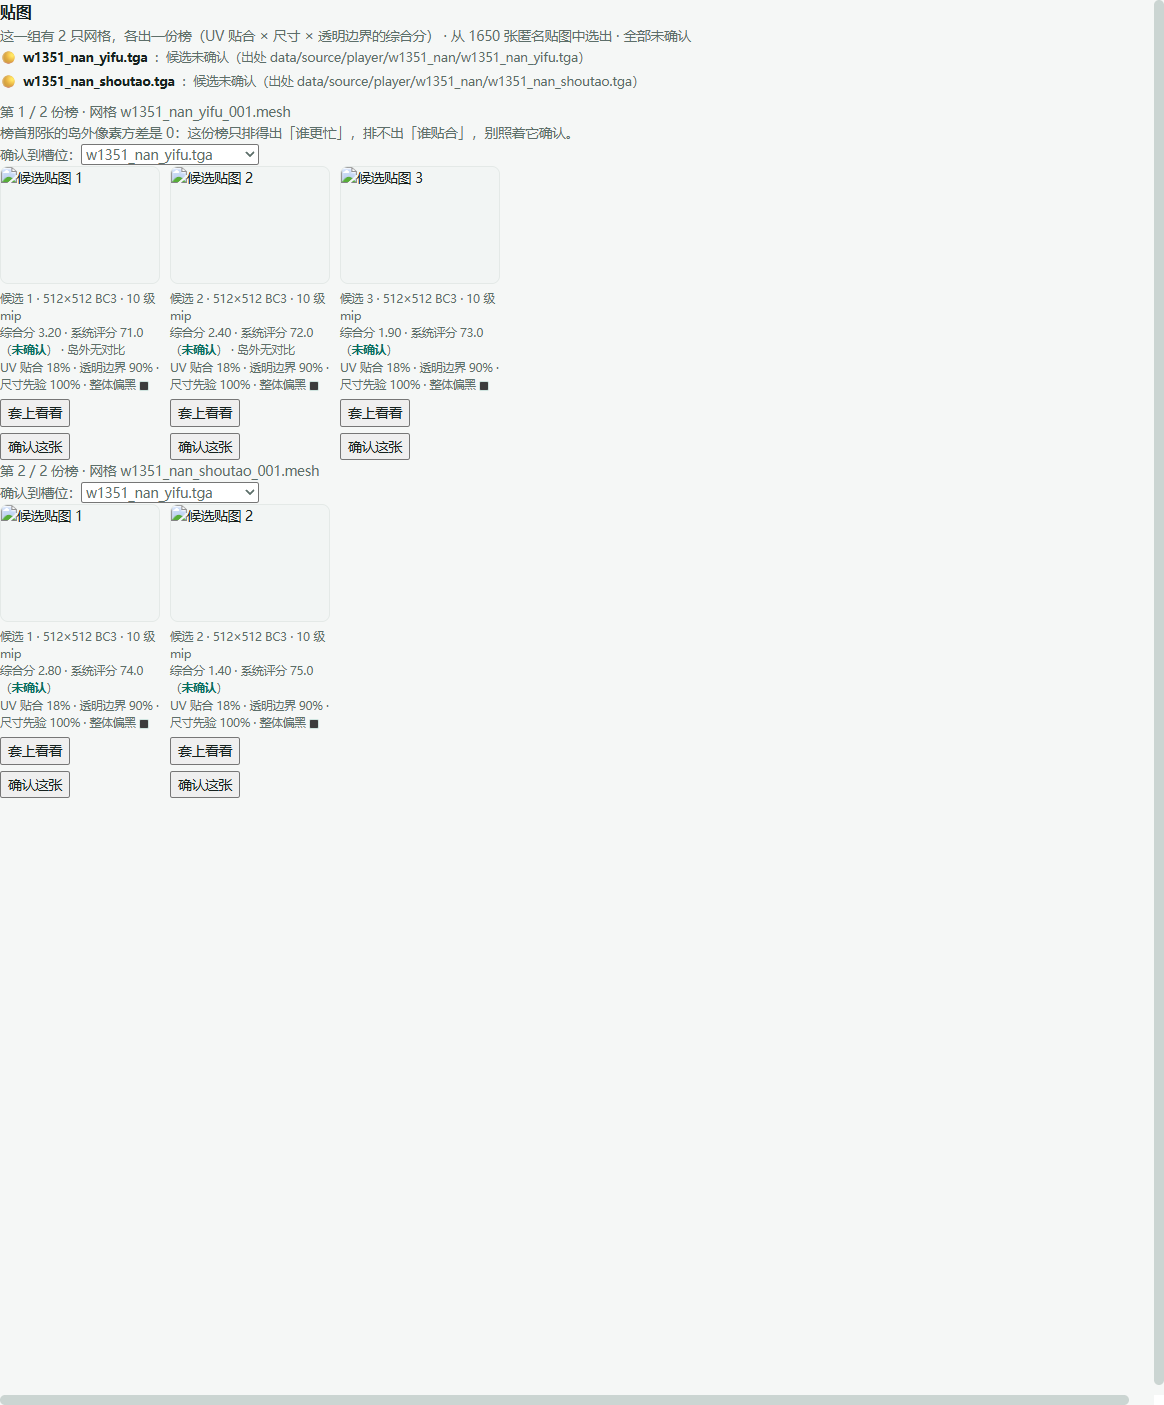
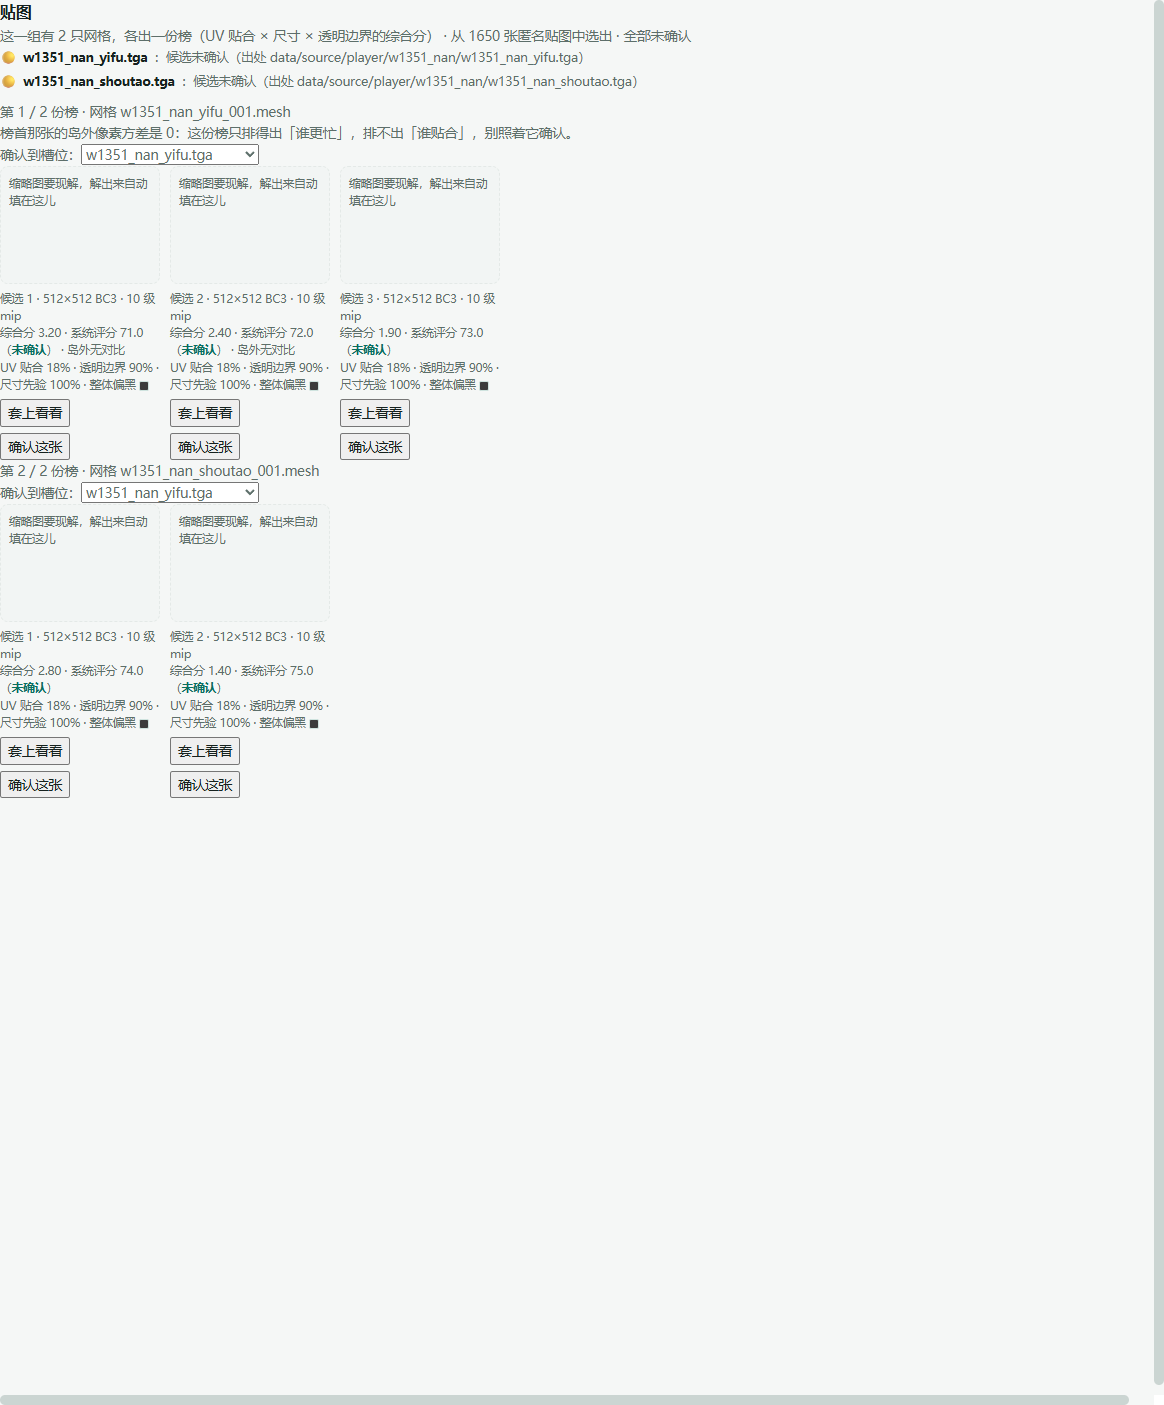
fix(贴图): 候选卡不再摆空 img——占位框有底纹有说明，解第几张/解不出来的原因写上卡面
批量缓存的候选不带内嵌图，以前是一张没有 src 的 img（浏览器画破图角）+ 串行现解，
用户点开贴图栏看到的就是「贴图呢」。现在：没图的卡先摆带底纹的占位框写明「要现解」，
逐张解时占位写「正在解第 k / n 张」，解出来撤占位换图，解不出来把后端原因写上卡面
（原来只挂在 title 里，等于没说）。JS 304 项全绿，真浏览器画面已看。

diff --git a/tlbb-explorer/app/web/detail.js b/tlbb-explorer/app/web/detail.js
@@ -848,21 +848,35 @@ async function loadCandidatePngs() {
     return null;
   };
   const imgs = Array.from(el("texCand").querySelectorAll("img[data-need-png]"));
-  for (const img of imgs) {
+  // 占位条与它那张图同处一个 figure：按 data-ph-for=hash 找，找不到就算了（旧缓存）。
+  const phOf = (img) =>
+    img.parentElement?.querySelector(`[data-ph-for="${CSS.escape(img.dataset.hash)}"]`) || null;
+  const note = el("texNote");
+  const baseNote = note.textContent;
+  for (const [i, img] of imgs.entries()) {
     if (!img.isConnected || texReply !== reply) return; // 已被下一轮 paint 换掉
+    const ph = phOf(img);
+    if (ph) ph.textContent = `正在解第 ${i + 1} / ${imgs.length} 张…`;
     try {
       const png = await api.candidatePng(img.dataset.hash);
       if (!img.isConnected || texReply !== reply) return;
       if (png) {
         img.src = png;
+        if (ph) ph.remove();
         const c = byHash(img.dataset.hash);
         if (c && !c.png) c.png = png;
-      } else {
+      } else if (ph) {
+        ph.textContent = "这张解不出来：容器里没有它";
         img.title = "缩略图没读出来";
       }
-    } catch {
+    } catch (e) {
+      // 原因写上卡面：只挂在 title 里等于没说，用户只会看到一格空。
+      if (ph) ph.textContent = `这张解不出来：${String((e && e.message) || e)}`;
       img.title = "缩略图没读出来";
     }
+  }
+  if (note.textContent === baseNote && imgs.length) {
+    note.textContent = `${baseNote} · 候选缩略图 ${imgs.length} 张已逐张现解（每张要开一次容器）`;
   }
 }
 

diff --git a/tlbb-explorer/app/web/lib/textureState.js b/tlbb-explorer/app/web/lib/textureState.js
@@ -91,9 +91,14 @@ export function texCandidatesHtml(group, slots = [], gi = 0, gn = 1) {
     ? `<p class="dim">榜首那张的岛外像素方差是 0：这份榜只排得出「谁更忙」，排不出「谁贴合」，别照着它确认。</p>`
     : "";
   const cards = group.candidates.map((c, i) => {
+    // 批量缓存的候选不带内嵌图：卡面必须先有一个**看得见**的占位（一行说明字 +
+    // 底纹框），不能只放一张没有 src 的 img——浏览器那会儿画的是破图角，
+    // 用户看到的就是「贴图呢」。占位文字由 detail.js 逐张更新（正在解 / 解不出来原因），
+    // 解出来就整条撤掉换成图。
     const img = c.png
       ? `<img src="${esc(c.png)}" alt="候选贴图 ${i + 1}">`
-      : `<img alt="候选贴图 ${i + 1}" data-need-png="1" data-hash="${esc(c.hash)}">`;
+      : `<span class="tex-ph" data-ph-for="${esc(c.hash)}">缩略图要现解，解出来自动填在这儿</span>
+         <img alt="候选贴图 ${i + 1}" data-need-png="1" data-hash="${esc(c.hash)}">`;
     return `
     <figure class="tex-cand">
       ${img}

diff --git a/tlbb-explorer/app/web/style.css b/tlbb-explorer/app/web/style.css
@@ -528,6 +528,14 @@ em.na { color: var(--muted); font-style: normal; }
   border: 1px solid var(--line); border-radius: var(--radius); background: var(--stage);
 }
 .tex-cand figcaption { color: var(--muted); font-size: 11.5px; line-height: 1.5; }
+/* 批量缓存的候选要先现解才有色：图没来之前卡面必须有看得见的底纹框和一行说明。
+   只放一张没有 src 的 img，浏览器画的是破图角——人看到的就是「贴图呢」。 */
+.tex-ph {
+  display: block; min-height: 118px; padding: 8px; box-sizing: border-box;
+  border: 1px dashed var(--line); border-radius: var(--radius); background: var(--stage);
+  color: var(--muted); font-size: 11.5px; line-height: 1.5;
+}
+.tex-cand img[data-need-png]:not([src]) { display: none; }
 .tex-cand figcaption b { color: var(--teal-deep); }
 /* v2 因子证据行：一行小字 + 平均色色点。色点只是「这张整体什么色调」的凭据，
    不给它加边框以外的任何强调，免得看着像结论标记。 */
